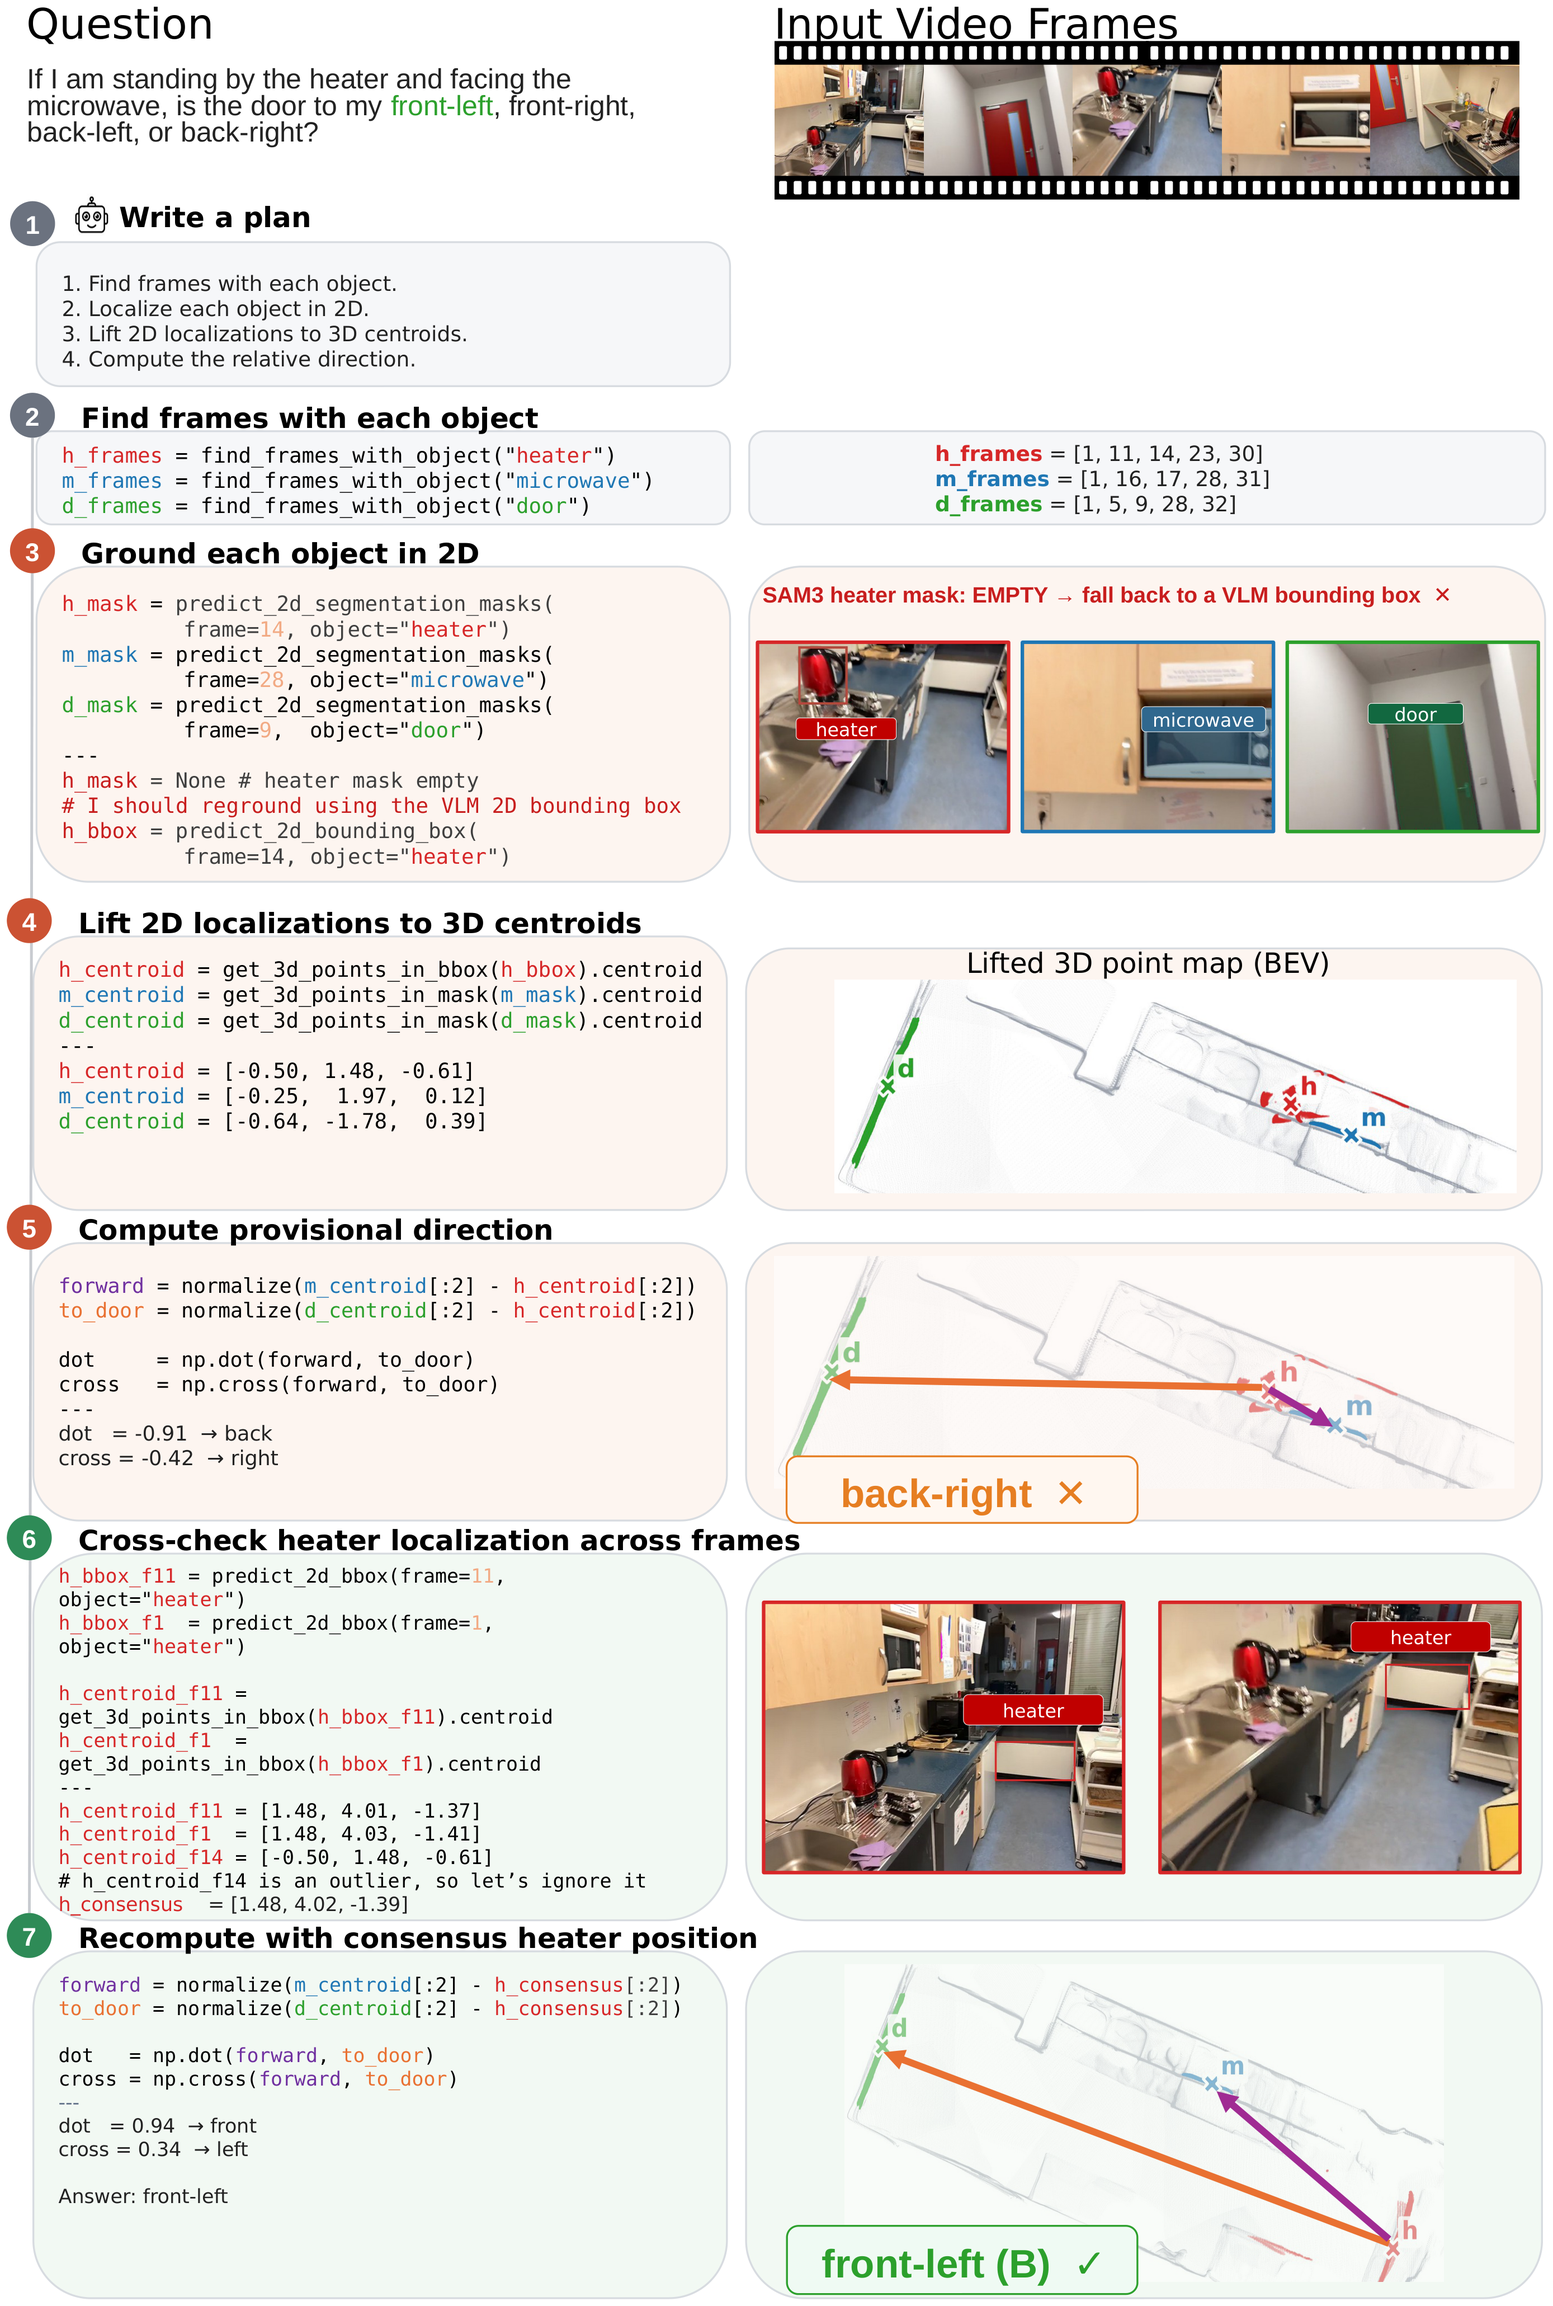
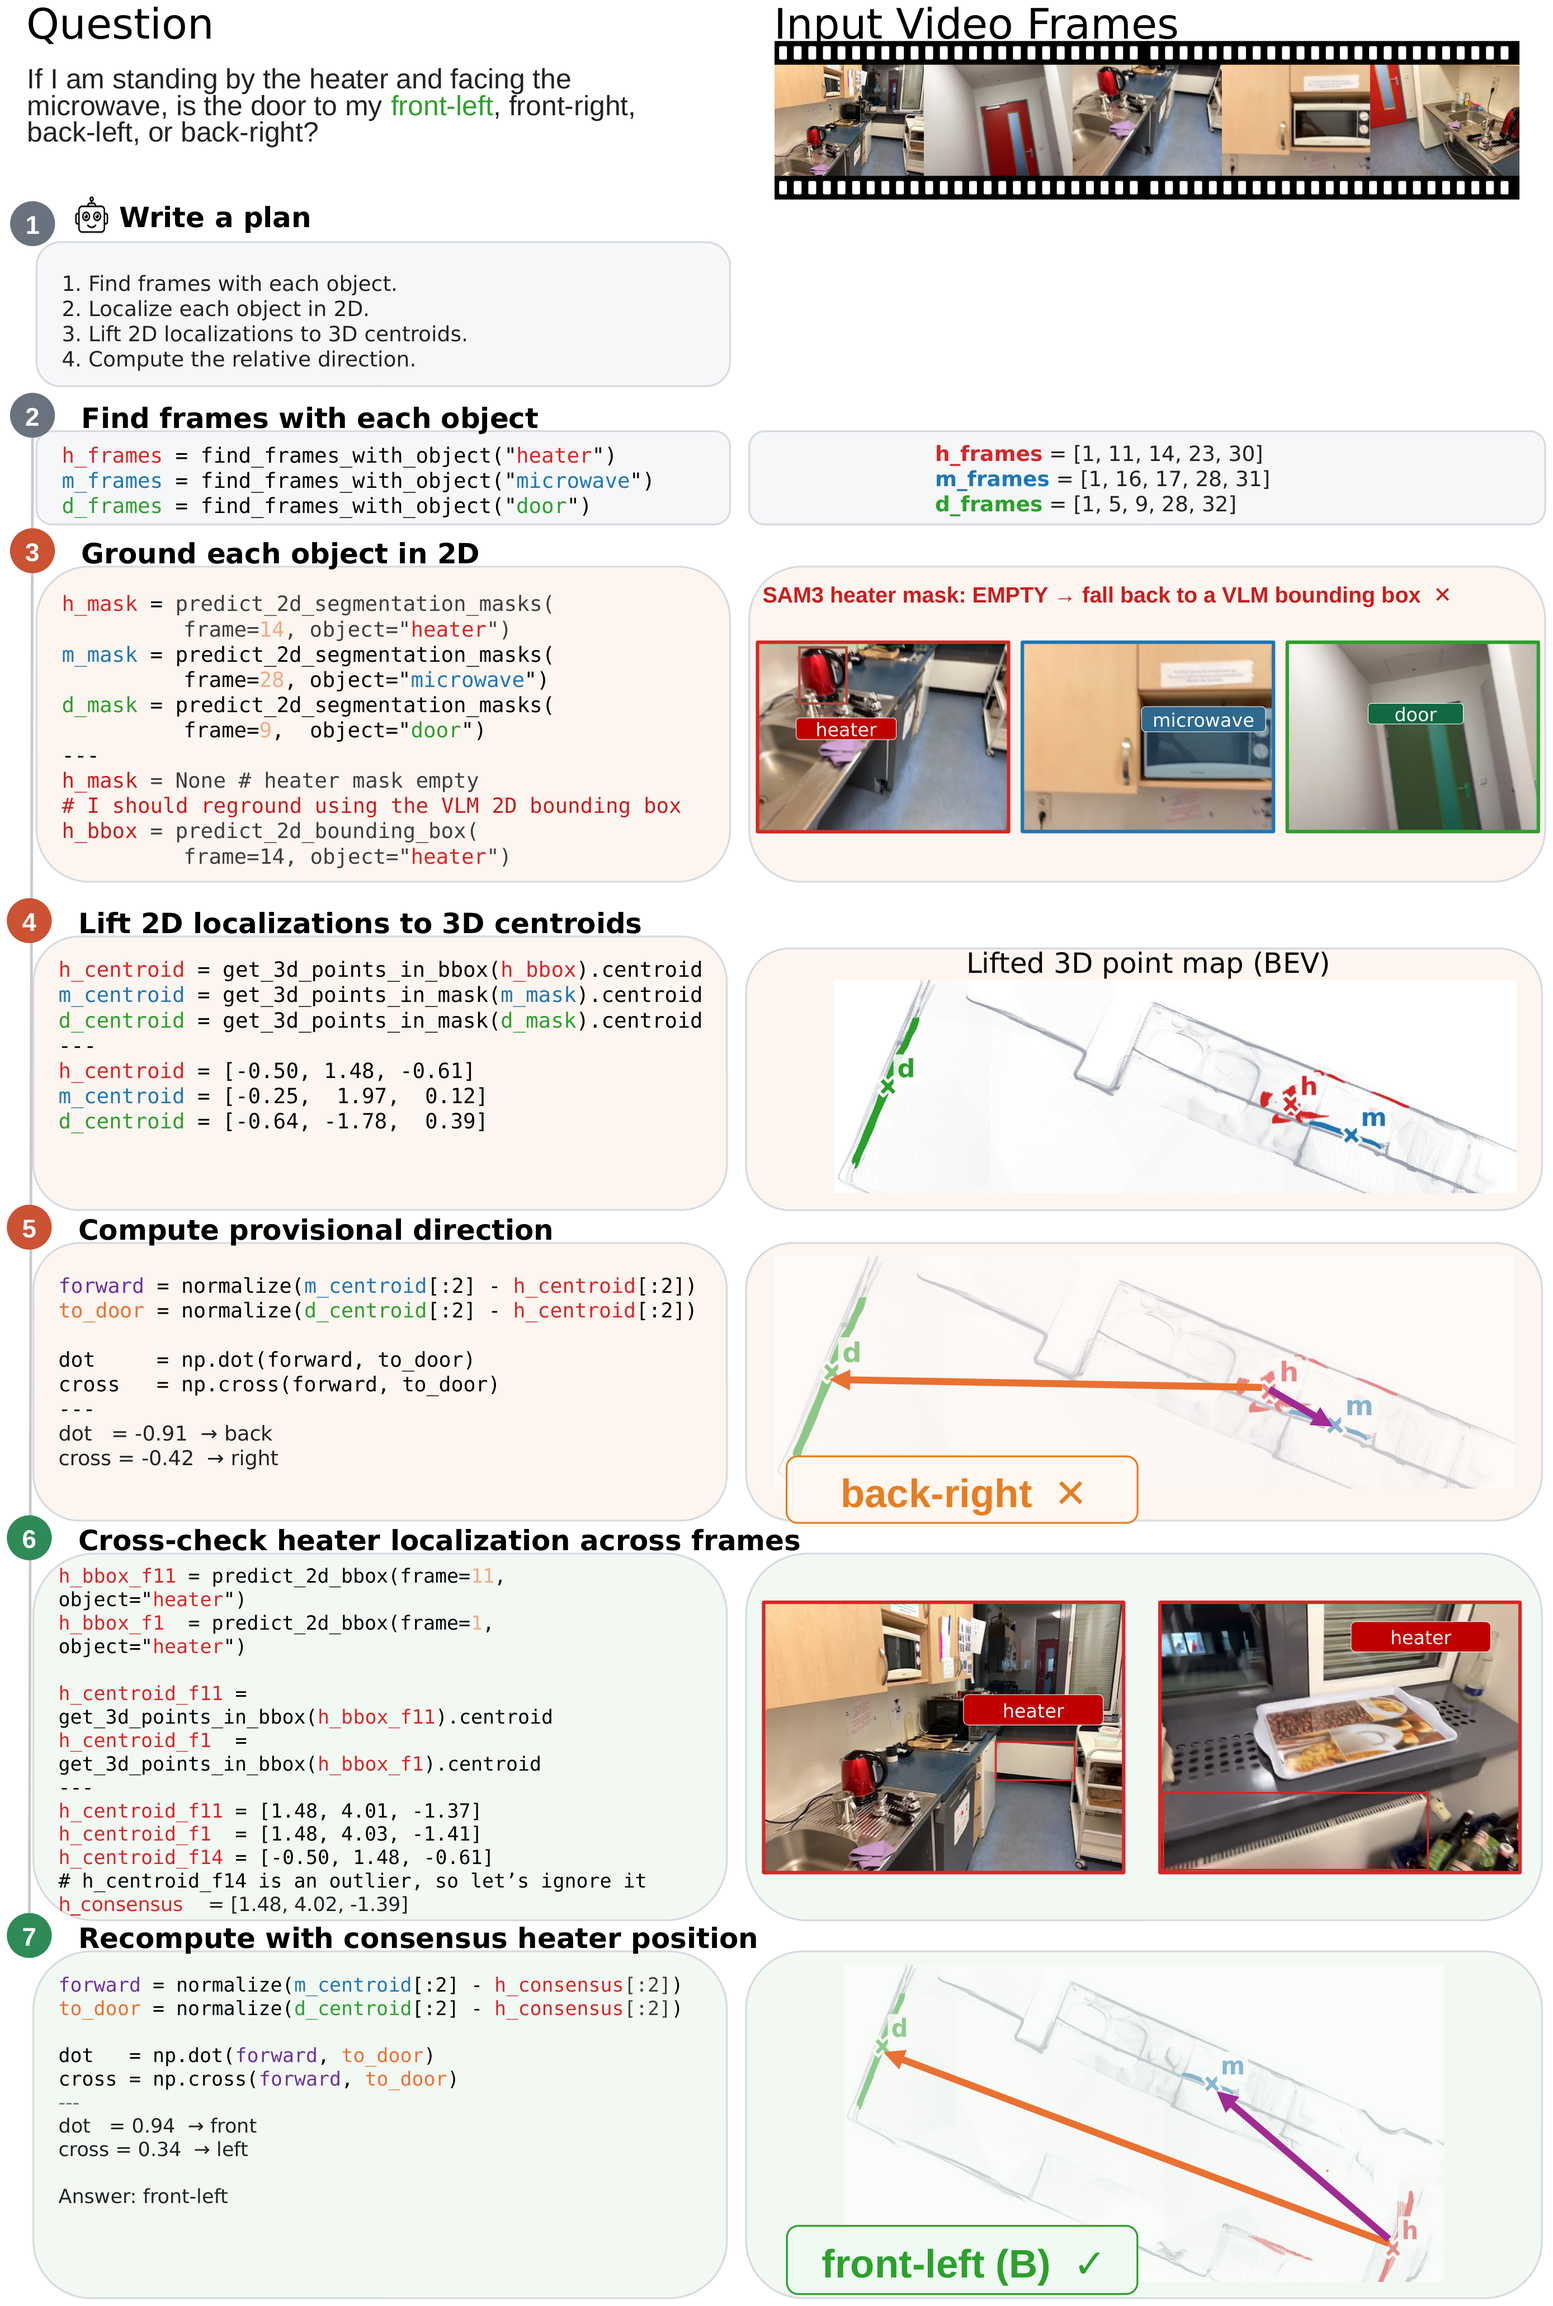
Walkthrough figure: heater shown in a frame where it reads as a wall unit
Rebuilt from the hero deck's v18, whose step 6 replaces one distant cross-check
view with sampled frame 23 at 0.7 m, the heater marked with a red bounding box in
the same style as the sibling card. Same 300 dpi render-and-trim recipe and
identical output dimensions.

Changed region(s): [[0.7432, 0.6832, 0.991, 0.8384]]

diff --git a/ASSETS.md b/ASSETS.md
@@ -36,7 +36,7 @@ The re-encode keeps the source geometry and timing: 1920x1080, 30 fps, 73.80 s.
 | --- | --- | --- |
 | `static/images/sample_question.png` | `/home/jjyeung/agent-project-paper/figure_kit/fig1_teaser/req83_776/variant_d_onerow/fig1_teaser_variant_d_editable_avg_v15.pptx` | python-pptx deletes shape ids 2, 3, 17 and every shape whose left edge is at or beyond 185 mm, and clears the outline on the `white_background` rectangle; then `LO_PROFILE=... soffice.sh --convert-to pdf`, then the 300 dpi render-and-trim recipe |
 | `static/images/pipeline.png` | `/home/jjyeung/agent-project-paper/figures/fig_pipeline.pdf` | 300 dpi render-and-trim recipe |
-| `static/images/walkthrough.png` | `/home/jjyeung/agent-project-paper/figure_kit/fig1_hero_trace/variant_b_q1851/hero_figure_filled_v16_user_5frames.pdf` | 300 dpi render-and-trim recipe |
+| `static/images/walkthrough.png` | `/home/jjyeung/agent-project-paper/figure_kit/fig1_hero_trace/variant_b_q1851/hero_figure_filled_v18_heater_slot23_bbox.pdf` | 300 dpi render-and-trim recipe |
 | `static/images/benchmark_bars.png` | poster kit `make_benchmark_bars.py` run by `scripts/make_site_charts.sh` (dagger on the GT legend entry) | `bash scripts/make_site_charts.sh` |
 | `static/images/vsti_category_bars.png` | poster kit `make_category_bars.py` run by `scripts/make_site_charts.sh` (dagger on the GT legend entry) | `bash scripts/make_site_charts.sh` |
 | `static/images/og_card.png` | `scripts/make_og_card.py`: the `og:image` / `twitter:image` link-preview card (Google Sans, poster palette, the Table 1 headline pair per benchmark); fonts cached at `/data2/jjyeung/tools/fonts/google_sans/`, download command in the script docstring | `python scripts/make_og_card.py` |
